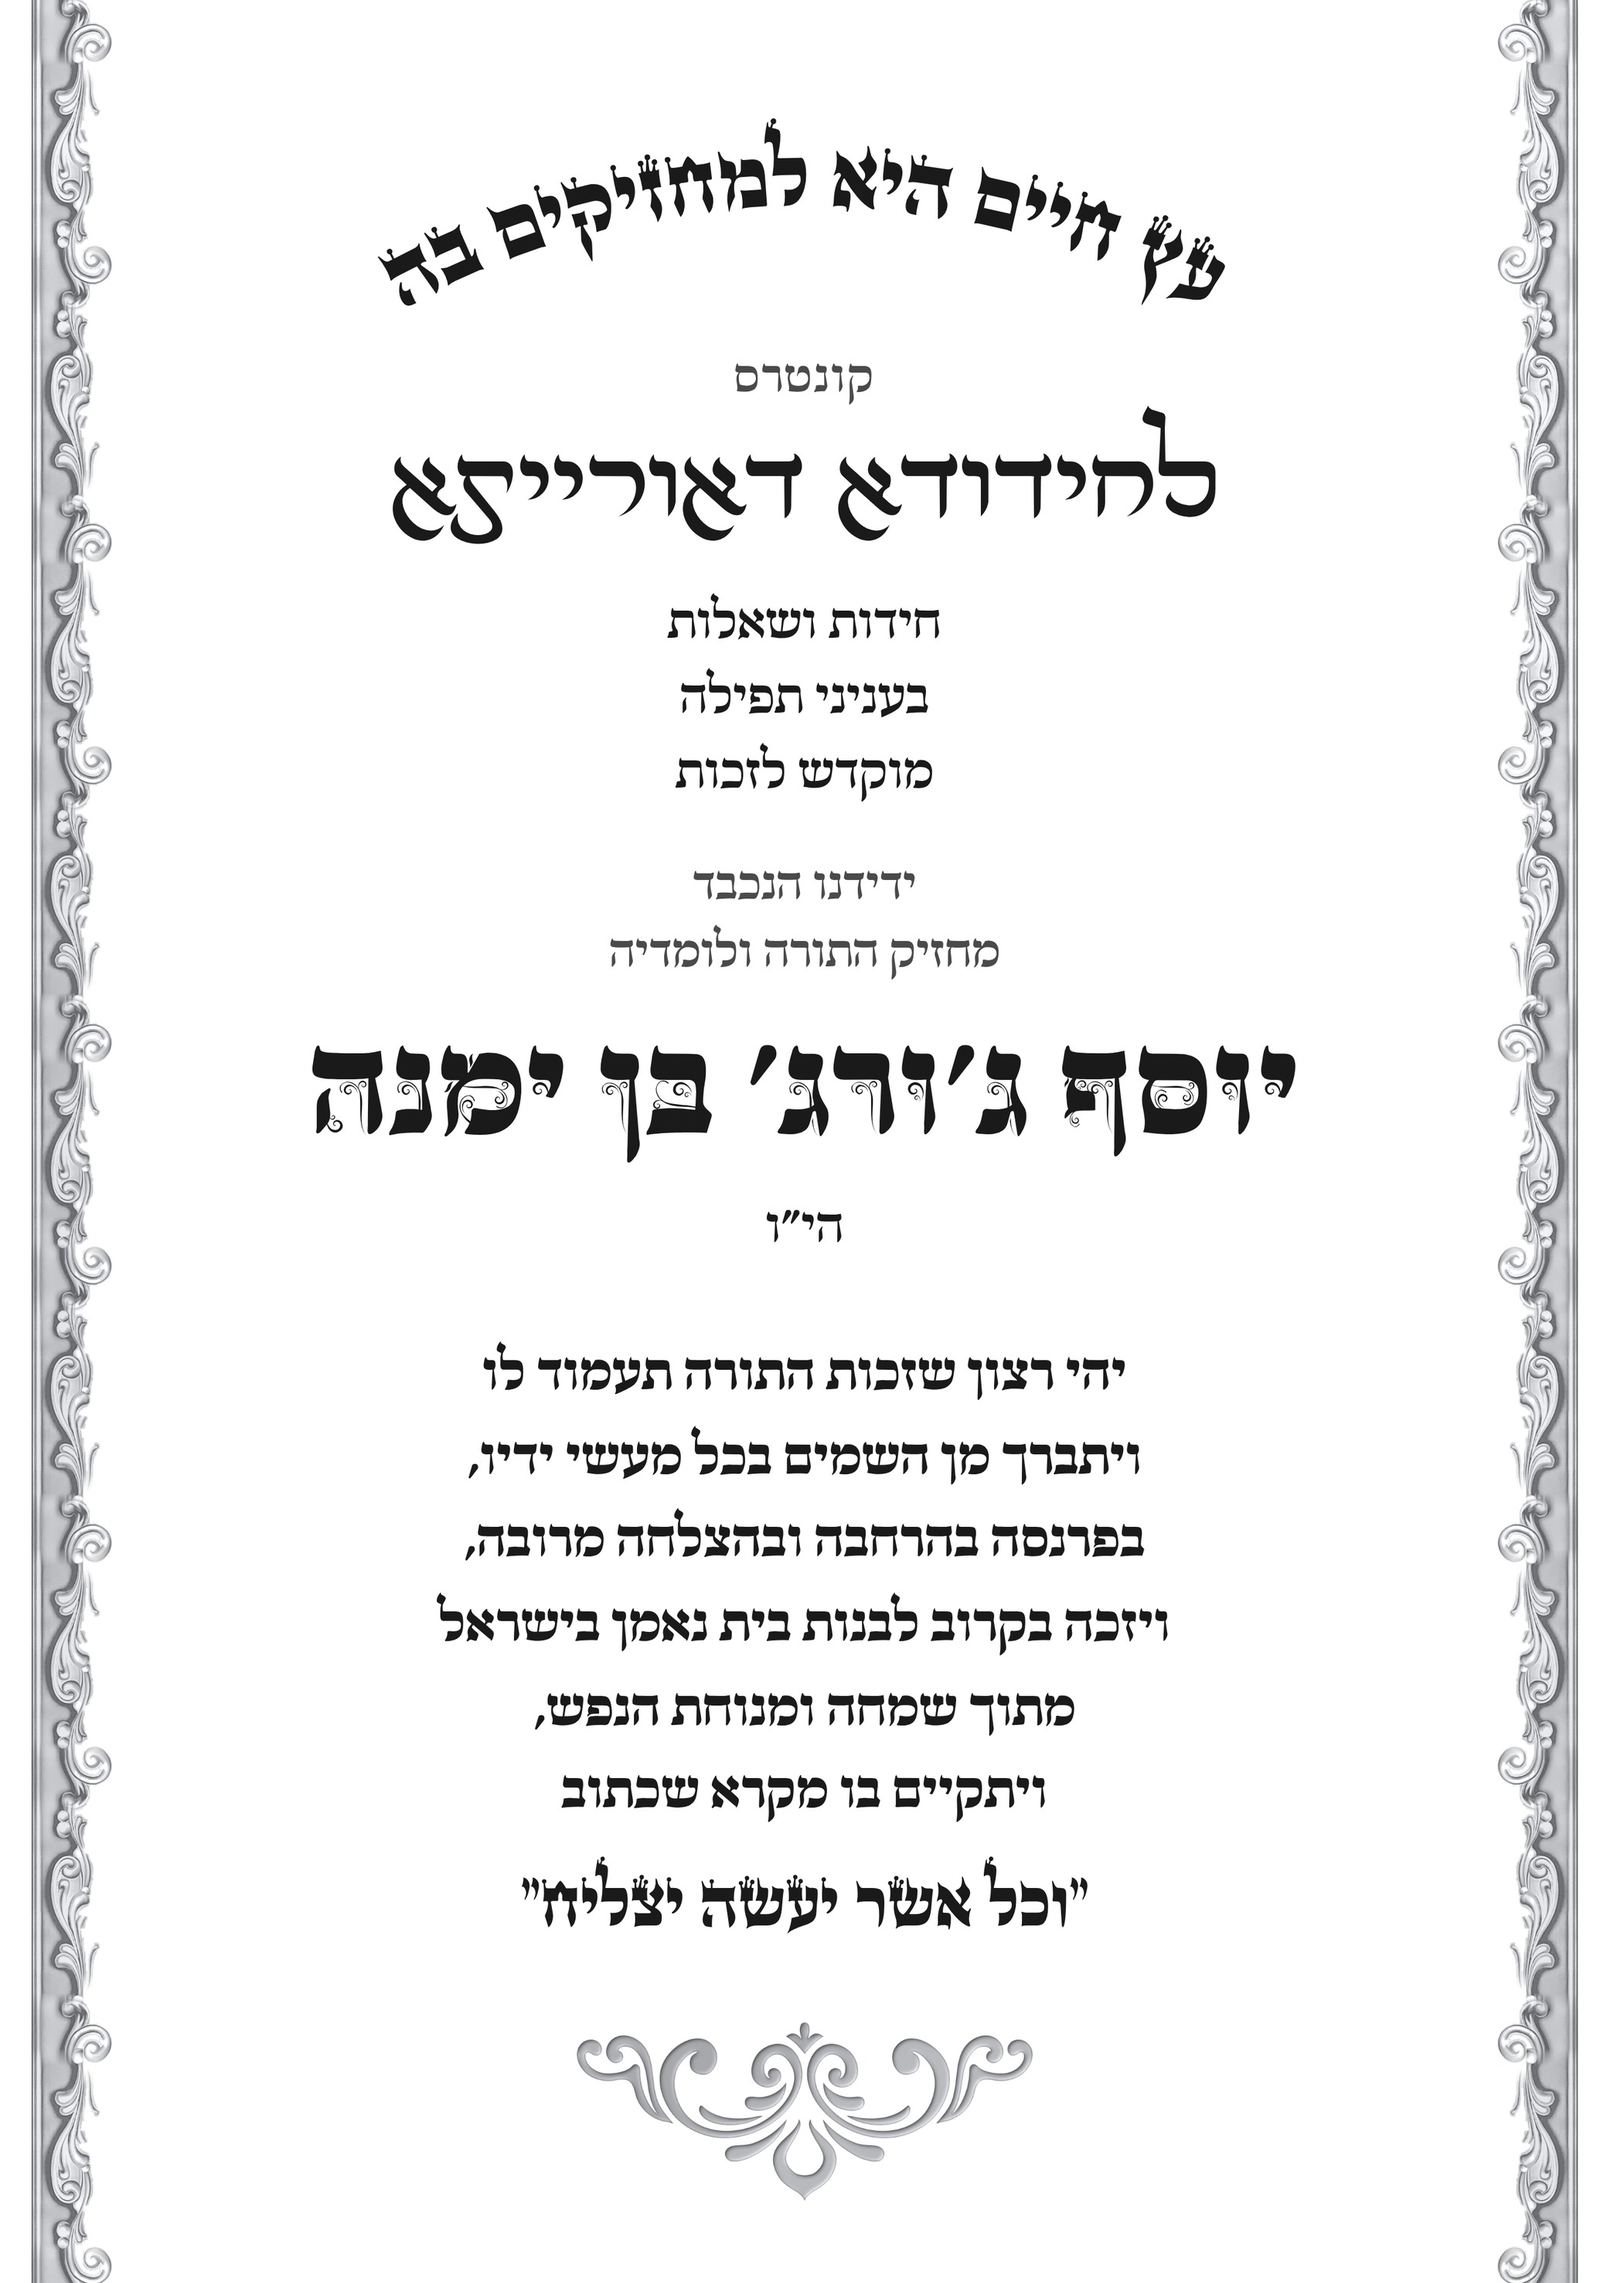
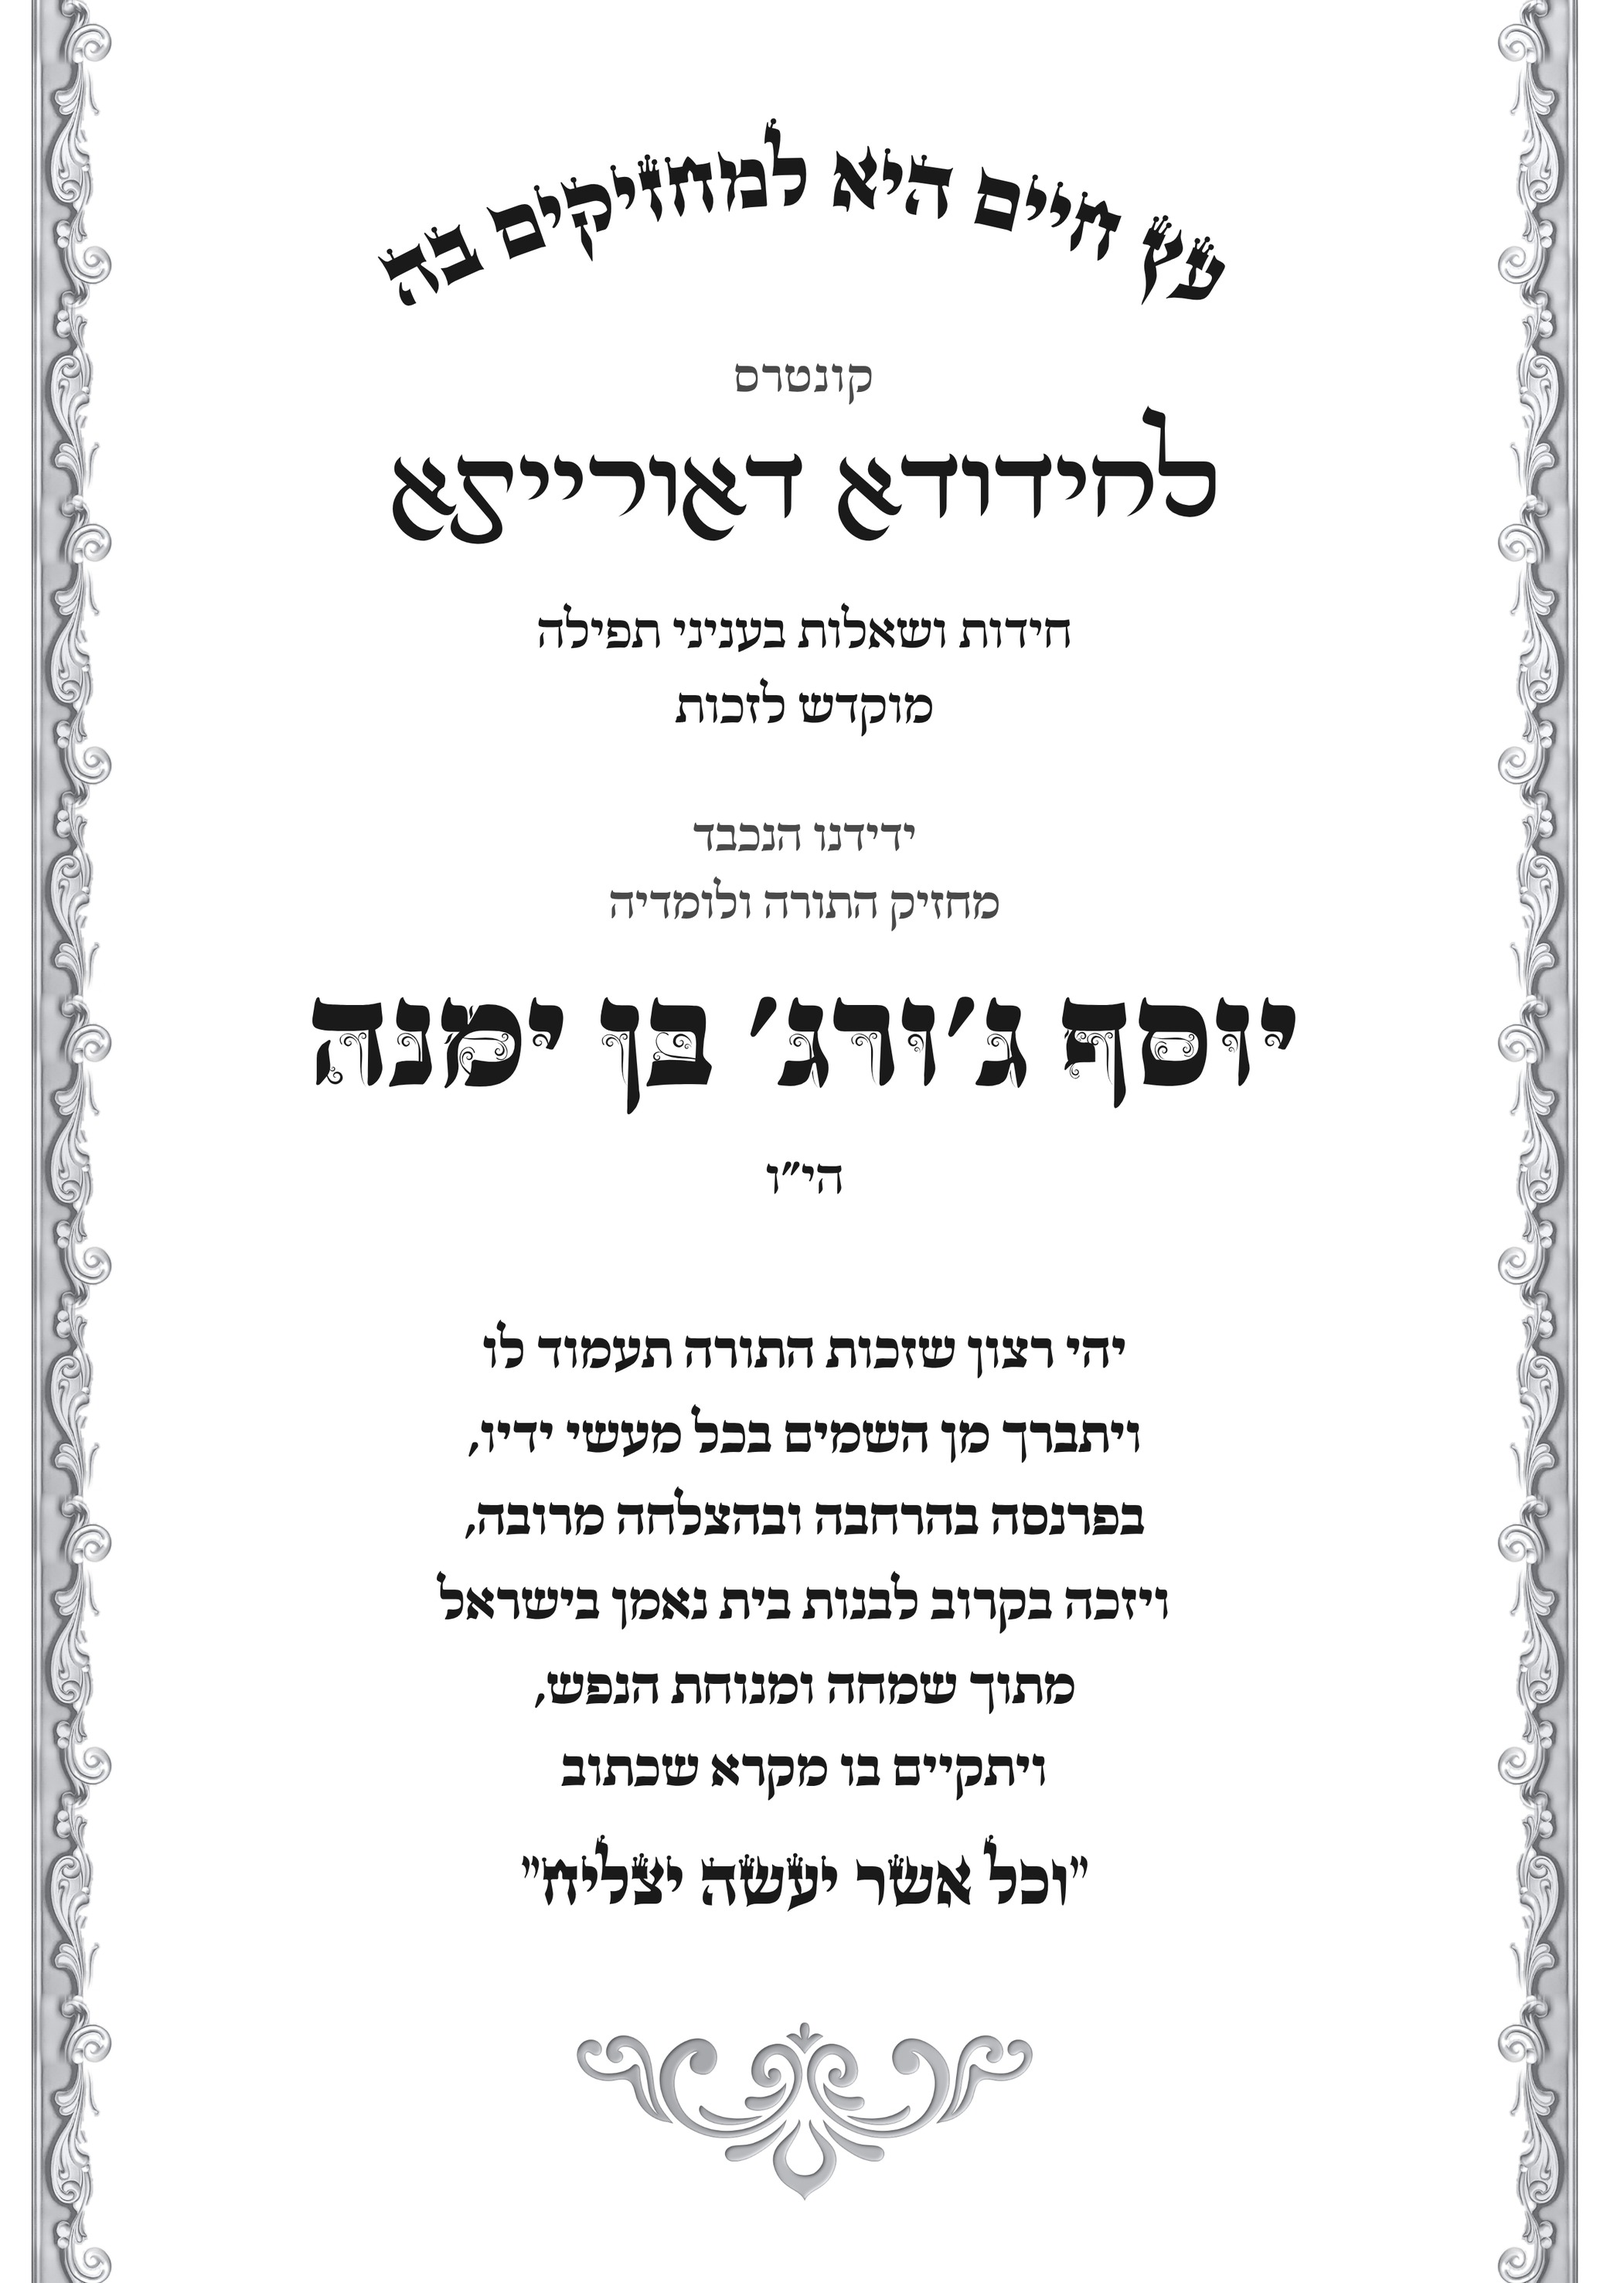
Dedication pages of Ritcha and Chidudda: the subject on one line
Claude-Session: https://claude.ai/code/session_01XDvx7X6sVWBxRkHfi9DMte

Changed region(s): [[0.1847, 0.2492, 0.8312, 0.8412], [0.6157, 0.2492, 0.6465, 0.2804]]

diff --git a/typeset/README.md b/typeset/README.md
@@ -85,4 +85,4 @@ A dedication page (`pages/hakdasha-yosef.json`, `node dedication_page_build.js p
 Dedication page, gold version (`node dedication_gold_build.js pages/hakdasha-yosef.json [out_dir]` -> `<id>-gold.pdf`, `<id>-gold.png`, `<id>-gold-grey.png`): a page meant to stand out among the silver pages while belonging to the booklet - the gold frame of the cover (`assets/cover/back-bg.jpg`) as the background, navy of the logo for the text, gold ornaments re-coloured from the ornaments of the booklet (`make_dedication_ornaments.py` -> `assets/dedication/*-gold.png`), the name of the donor (`nameLines`, one or two lines, the largest size at which the longer line fits) in gold letters in a navy medallion with a double gold rim and gold corner fleurons; the bold words of the blessing in dark gold; the colour logo with the signature at the foot. Fonts from the font library of the user (branch `claude/awesome-mccarthy-9r1no8`, `font-library/my-fonts/fonts`; looked up in `assets/fonts`, `../font-library/my-fonts/fonts` and `$FONT_DIR`): Ashkenazy (title), Guttman Keren (לזכות, the signature), EFT Frankfurt Decor (the name), FrankRuehl DP (text; ׳ ״ from Frank Ruhl Libre because FrankRuehl DP draws them empty), HadasaNew (small lines). `-grey.png` shows how the page looks if it is printed in black only.
 
 Dedication page, classic version (`node dedication_classic_build.js pages/hakdasha-yosef.json [out_dir]` -> `<id>-classic.pdf`, `<id>-classic.png`; the text in the `classic` part of the json, every line as it is broken on the page): dressed like the haskamot pages so that it belongs to the booklet - the two silver side rails (`frame-silver.png`); at the top the title (`title`, a verse: "עץ חיים היא למחזיקים בה") in StamAshkenazy on an arc above "קונטרס / פלפולא דאורייתא" (an svg textPath on a circle, `A` in the script: radius 92 mm, half angle 0.76 rad; the largest size up to 16 mm whose length is at most 66 % of the arc; the lines below rise 15 mm into the arc), with no ornaments; no band or frame; centred lines; the name of the donor (no title before it) on one line, as large as fits up to 44 pt; no divider between the name and the blessing; the verse below the blessing (no source); `flourish-wide-2.png` at the foot; no signature. Fonts chosen by the user from `output/font-comparison.pdf`: EFT Algebra (the name of the booklet), EFT Pnina Decor (the name), EFT Pnina Bold (the blessing), EFT Pnina (the small lines), StamAshkenazy (the title and the verse, without niqqud - its vowel points float).
-The same dedication page for the two other booklets of the series: `pages/hakdasha-yosef-ritcha.json` (ריתחא דאורייתא, "קושיות ונידונים / בהלכות תפילה וברכות") and `pages/hakdasha-yosef-chidudda.json` (לחידודא דאורייתא, "חידות ושאלות / בעניני תפילה"; the subjects are those of their covers) - only `book` and `sub` differ; `node dedication_classic_build.js pages/hakdasha-yosef-<name>.json`.
+The same dedication page for the two other booklets of the series: `pages/hakdasha-yosef-ritcha.json` (ריתחא דאורייתא, "קושיות ונידונים בהלכות תפילה וברכות") and `pages/hakdasha-yosef-chidudda.json` (לחידודא דאורייתא, "חידות ושאלות בעניני תפילה" - the subject on one line; the subjects are those of their covers) - only `book` and `sub` differ; `node dedication_classic_build.js pages/hakdasha-yosef-<name>.json`.
